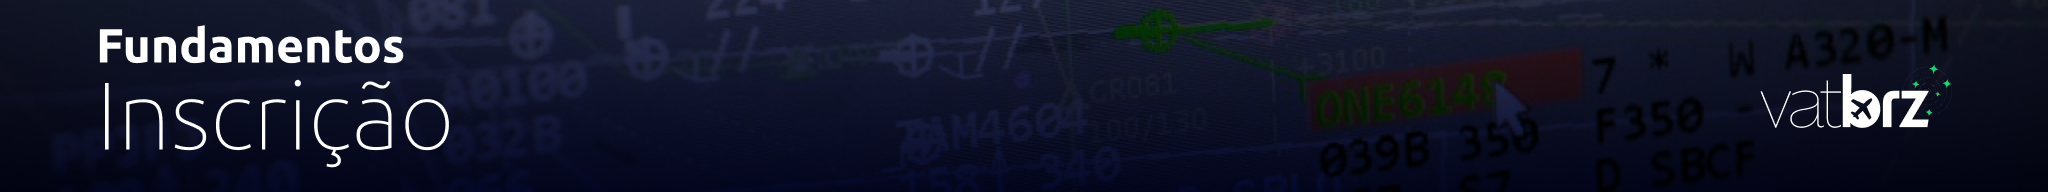
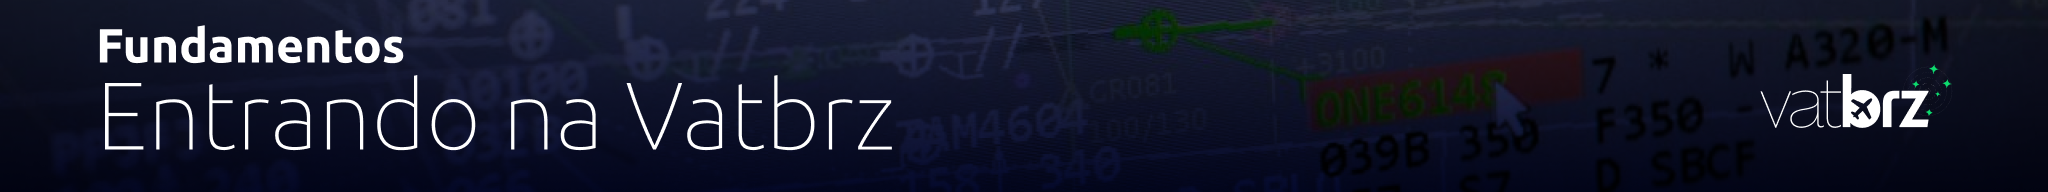
Add ATC training guide and update documentation
Added 'Começando o Treinamento ATC' guide for new controllers, updated the 'inscricao' page with detailed region/division assignment instructions, and refreshed TrackAudio and EuroScope documentation. New images were added to support the updated guides, and navigation was updated to include the new training section.

diff --git a/docs/fundamentos/treinamentoatc.md b/docs/fundamentos/treinamentoatc.md
@@ -1,0 +1,112 @@
+---
+  title: Começando o Treinamento ATC
+  description: Guia passo a passo para novos controladores que desejam iniciar o treinamento ATC na Vatsim Brasil
+  hide:
+    - toc
+---
+
+--8<-- "includes/abreviacoes.md"
+
+![Fundamentos - Começando o Treinamento ATC](img/head-fundamentos-comecandotreinamentoatc.png)
+
+## Introdução
+
+Interessado em se tornar um Controlador de Tráfego Aéreo na Rede VATSIM, controlando um dos espaços aéreos mais movimentados da América do Sul? Aqui está tudo o que você precisa saber para começar.
+
+## 📌 Requisitos e Expectativas
+
+Tornar-se um controlador exige:
+
+* Compromisso
+* Disciplina
+* Autoestudo
+* Disposição para aprender continuamente
+
+A VATSIM segue um sistema de classificações que determinam as posições que você pode controlar, semelhante ao treinamento de ATC do mundo real.
+
+!!! warning "Importante"
+    Você deve ser membro residente da Vatsim Brasil antes de iniciar o treinamento ATC.
+
+Verifique seu status e como ingressar aqui: [Entrando na Vatbrz](https://atc.vatsim.com.br/fundamentos/inscricao/)
+
+## 🧰 Softwares Utilizados
+
+Antes de observar ou treinar, instale os seguintes programas:
+
+- [Euroscope e Sector Files](https://atc.vatsim.com.br/fundamentos/softwares/euroscope/)
+- [TrackAudio](https://atc.vatsim.com.br/fundamentos/softwares/trackaudio/)
+- [vATIS](https://atc.vatsim.com.br//fundamentos/softwares/vatis/)
+
+## 🎓 Ratings ATC na VATSIM
+
+O sistema de ratings ATC da VATSIM Brasil é dividido em níveis, cada um com suas próprias responsabilidades e permissões:
+
+| Rating | Descrição                         |
+|--------|-----------------------------------|
+| S1     | Controlador em Desenvolvimento    |
+| S2     | Controlador de Aeródromo          |
+| S3     | Controlador de Terminal           |
+| C1     | Controlador de Setores Em Rota    |
+| C3     | Controlador Sênior                |
+| I1     | Instrutor                         |
+| I3     | Instrutor Sênior                  |
+
+### Requisitos
+
+#### S1 (Developing Controller)
+- Aprovação em prova teórica no [Centro de Treinamento da Vatsim Brasil](<https://treinamento.vatsim.com.br>).
+- Treinamento com um de nossos mentores para ambientação.
+- O rating te habilita a controlar todas as posições **_DEL e _GND** na jurisdição da Vatsim Brasil.
+
+#### S2 (Aerodrome Controller)
+- Aprovação em prova teórica no [Centro de Treinamento da Vatsim Brasil](<https://treinamento.vatsim.com.br>).
+- Treinamento com um de nossos mentores para aprofundamento.
+- Check prático.
+- O rating te habilita a controlar todas as posições **_TWR** na jurisdição da Vatsim Brasil.
+
+#### S3 (Terminal Controller)
+- Aprovação em prova teórica no [Centro de Treinamento da Vatsim Brasil](<https://treinamento.vatsim.com.br>).
+- **10h** horas mínimas de conexão em **_TWR como S2**.
+- Treinamento com um de nossos mentores para aprofundamento.
+- **10h** horas mínimas de solo trainee como **_APP**.
+- Check prático.
+- O rating te habilita a controlar todas as posições **_APP** na jurisdição da Vatsim Brasil.
+
+#### C1 (Enroute Controller)
+- Aprovação em prova teórica no [Centro de Treinamento da Vatsim Brasil](<https://treinamento.vatsim.com.br>).
+- **10h** horas mínimas de conexão em **_APP como S3**.
+- Treinamento com um de nossos mentores para aprofundamento.
+- **15h** horas mínimas de solo trainee como **_CTR**.
+- Check prático.
+- O rating te habilita a controlar todas as posições **_CTR** na jurisdição da Vatsim Brasil.
+
+#### I1 (Instructor)
+- Os requisitos para o rating I1 podem ser encontrados na seção 4.1 da [Política de Divisão - VATSIM Brasil](<https://vatsim.com.br/documentos/politica-de-divisao>).
+
+#### C3 e I3 (Senior Controller e Senior Instructor)
+Os requisitos para os ratings C3 e I3 podem ser encontrados nas seções 3.6 e 4.2, respectivamente, da [Política de Divisão - VATSIM Brasil](<https://vatsim.com.br/documentos/politica-de-divisao>).
+
+## 📖 Inscrição no Treinamento de S1
+
+Para iniciar seu treinamento ATC na Vatsim Brasil, siga estes passos:
+
+* Visite a Central de Treinamento da Vatsim Brasil.
+* Cadastre-se e se inscreva no curso de S1.
+* Realize o curso e passe no exame teórico.
+* Após a aprovação, abra um ticket no Discord da Vatsim Brasil para agendar sua primeira sessão de treinamento prático com um mentor ATC.
+
+## 🛫 Treinamento Prático
+
+O treinamento prático consiste em sessão(ões) individual(is) com um mentor ATC certificado. Durante essas sessões, você praticará o controle de tráfego aéreo em um ambiente simulado, aplicando os conhecimentos adquiridos no curso teórico.
+
+## 🧪 Concessão do Rating
+
+Depois de concluir todas as sessões de treinamento prático, o mentor ATC avaliará seu desempenho e determinará se você está pronto para receber seu rating S1.
+
+✅ Se for julgado apto, o mentor encaminhará sua aprovação para a equipe de treinamento da Vatsim Brasil, que liberará seu rating em tempo hábil.
+
+## 🌐 Próximos Passos
+
+Após obter seu rating S1, você pode continuar seu desenvolvimento como controlador ATC, buscando ratings mais avançados e participando de eventos na rede VATSIM.
+
+#

diff --git a/docs/fundamentos/inscricao.md b/docs/fundamentos/inscricao.md
@@ -1,5 +1,6 @@
 ---
-  title: Inscrição
+  title: Entrando na Vatbrz
+  description: Guia passo a passo para novos membros que desejam ingressar na Vatsim Brasil
   hide:
     - toc
 ---
@@ -44,3 +45,24 @@ Todos os membros, sejam transferindo para a Vatsim Brasil ou se candidatando par
 <!--Se você está apenas interessado em se tornar um controlador visitante (sem se transferir), consulte diretamente a Política de Transferência e Controladores Visitantes em nossa Biblioteca no lado esquerdo para obter instruções e requisitos detalhados.-->
 
 [^1]: [Transfer and Visiting Controller Policy - TVCP](https://vatsim.net/docs/policy/transfer-and-visiting-controller-policy)
+
+## vACC/Divisão/Região Atribuída
+
+Para continuar com as próximas seções deste documento, você deve primeiro determinar sua atribuição atual em termos de vACC, Divisão e Região. Você pode encontrar essas informações verificando seu perfil no [myVATSIM](https://my.vatsim.net) e olhando o campo "Region - Division - Subdivision".
+
+![Perfil](img/inscricao-perfil.png)
+
+## Atribuição de Região e Divisão
+Depois de conferir seu perfil no myVATSIM, se você não estiver atualmente na Região América (AMAS), siga estes passos:
+
+1. Visite a [página de transferência de Região do myVATSIM](https://my.vatsim.net/user/region).
+2. Selecione "Americas" como sua nova Região.
+3. Selecione "Brasil (VATBRZ)" como sua nova Divisão.
+
+!!! info
+    Transferências regionais não são gerenciadas pela divisão e estão fora do nosso controle. Por favor, evite nos enviar mensagens sobre o status de sua transferência, pois não somos responsáveis por esses processos.
+    Lembre-se que a Política de Transferência e Controladores Visitantes da VATSIM se aplica e quaisquer transferências aprovadas estarão sujeitas a um período de espera de 90 dias antes que você possa enviar outra solicitação de transferência.
+
+
+
+#

diff --git a/docs/fundamentos/softwares/trackaudio/index.md b/docs/fundamentos/softwares/trackaudio/index.md
@@ -6,9 +6,14 @@
 
 --8<-- "includes/abreviacoes.md"
 
-![Fundamentos - TrackAudio - Visão Geral](img/head-trackaudio-visaogeral.png)
+![Fundamentos - TrackAudio](img/trackaudio.png)
 
-A ferramenta principal é o [Euroscope](https://www.euroscope.hu). Nela são realizadas todas as atividades de controle de tráfego aéreo, seja em operação radar ou convencional, bem como informações meteorológicas, canais de coordenação com outros órgãos de controle e emissão de relatórios operacionais.
+TrackAudio é o mais novo cliente de áudio para controle de tráfego aéreo na rede VATSIM, compatível com macOS, Linux e Windows. Ele substitui completamente o cliente AFV (Audio For Vatsim), mas requer alguns passos extras para ser utilizado corretamente.
+
+![](img/config.png){ : style="display:block; margin:auto; height:300px; border:2px solid #999" }
+
+
+#
 
 ---
 

diff --git a/docs/fundamentos/softwares/euroscope/Instalacao.md b/docs/fundamentos/softwares/euroscope/Instalacao.md
@@ -39,6 +39,9 @@ Os arquivos de setor são baixados e instalados **pelo [Aeronav GNG](https://fil
 !!! info "Uma informação importante"
     Se desejar mudar de posição e esta se encontrar em uma FIR diferente, você deverá reiniciar o Euroscope e abrir o perfil correto para a nova posição. Simplesmente carregar o novo setor/ASR não é suficiente.
 
+
+#
+
 ---
 
 <div class="page-navigation">

diff --git a/docs/fundamentos/softwares/euroscope/index.md b/docs/fundamentos/softwares/euroscope/index.md
@@ -12,6 +12,8 @@ A ferramenta principal é o [Euroscope](https://www.euroscope.hu). Nela são rea
 
 ![Euroscope na TMA São Paulo](img/euroscope.png){ loading=lazy }
 
+#
+
 ---
 
 <div class="page-navigation">

diff --git a/docs/fundamentos/softwares/euroscope/utilizacao.md b/docs/fundamentos/softwares/euroscope/utilizacao.md
@@ -8,6 +8,8 @@
 
 🧑🏭 Em construção.
 
+#
+
 ---
 
 <div class="page-navigation">
